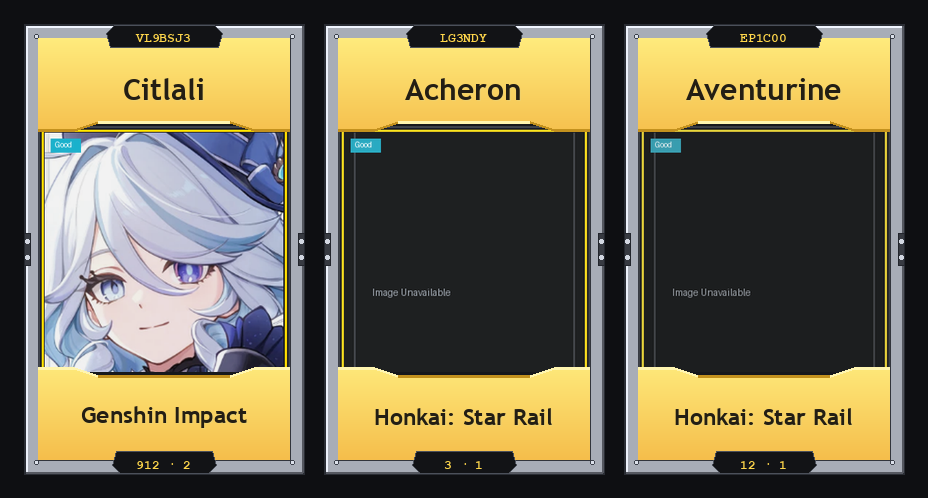
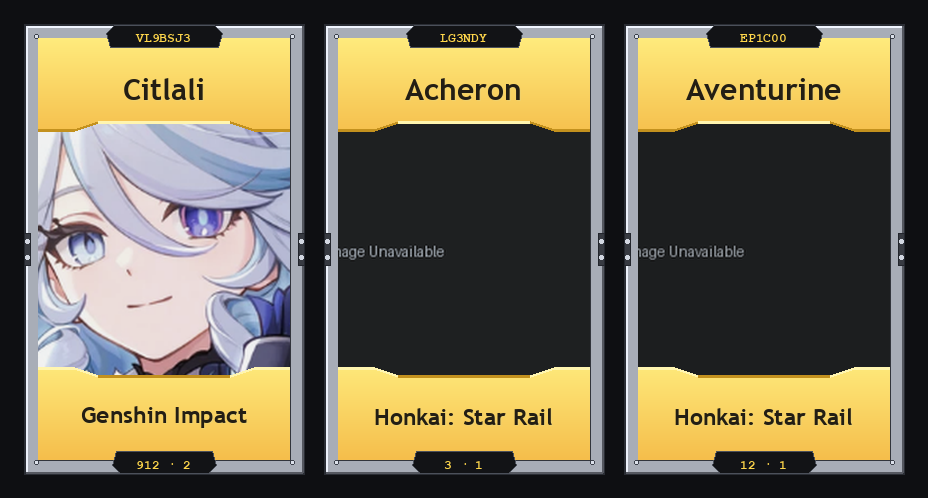
Update card renderer for full-bleed artwork scaling with zero black space

diff --git a/utils/renderer.py b/utils/renderer.py
@@ -143,7 +143,7 @@ def apply_quality_effects_on_artwork(draw: ImageDraw.ImageDraw, x: int, y: int, 
         draw.line([br_x - 45, br_y - 30, br_x - 70, br_y - 20], fill=crack_col, width=1)
 
 def fit_top_crop_image(img: Image.Image, target_w: int, target_h: int) -> Image.Image:
-    """Scales image to fill target width/height and crops from TOP center so character head is never cut off."""
+    """Scales image to fill full target dimensions (edge-to-edge, zero black bars), top-aligned to preserve character head/face."""
     orig_w, orig_h = img.size
     if orig_w == 0 or orig_h == 0:
         return img.resize((target_w, target_h), Image.Resampling.LANCZOS)
@@ -154,11 +154,11 @@ def fit_top_crop_image(img: Image.Image, target_w: int, target_h: int) -> Image.
     resized = img.resize((new_w, new_h), Image.Resampling.LANCZOS)
     
     left = (new_w - target_w) // 2
-    top = 0  # Align top so head/face is completely preserved
+    top = 0  # Preserve top of character image (head/face)
     return resized.crop((left, top, left + target_w, top + target_h))
 
 def fit_and_crop_image(img: Image.Image, target_w: int, target_h: int) -> Image.Image:
-    """Alias pointing to fit_top_crop_image."""
+    """Alias for fit_top_crop_image."""
     return fit_top_crop_image(img, target_w, target_h)
 
 # ==========================================
@@ -360,28 +360,23 @@ async def render_cards_image(cards: list, show_quality: bool = False) -> io.Byte
         # 1. Draw Frame Structure
         _draw_karuta_frame_structure(draw, cx, cy, card_w, card_h)
 
-        # 2. Viewport bounds & Artwork positioning (starts from name banner)
+        # 2. Viewport bounds & Artwork positioning (Full width & height, top-aligned)
         content_x = cx + t_frame
         content_y = cy + t_frame
         content_w = card_w - t_frame * 2
         content_h = card_h - t_frame * 2
 
-        # Artwork starts right under top name banner and spans to bottom series banner
-        art_x = content_x
-        art_y = content_y + banner_h - 12
-        art_w = content_w
-        art_h = content_h - (banner_h - 12) * 2
-
-        fitted_art = fit_top_crop_image(raw_images[i], art_w, art_h)
+        # Artwork fills the entire content box from content_x to content_x + content_w
+        fitted_art = fit_top_crop_image(raw_images[i], content_w, content_h)
         if show_quality:
             fitted_art = apply_quality_filter_to_image(fitted_art, q_val)
 
-        canvas.paste(fitted_art, (art_x, art_y))
+        canvas.paste(fitted_art, (content_x, content_y))
 
         if show_quality:
-            apply_quality_effects_on_artwork(draw, art_x, art_y, art_w, art_h, q_val)
+            apply_quality_effects_on_artwork(draw, content_x, content_y, content_w, content_h, q_val)
 
-        # 3. Gold Banners
+        # 3. Gold Banners over Artwork
         canvas.paste(top_banner_img, (content_x, content_y), top_banner_img)
         canvas.paste(bot_banner_img, (content_x, content_y + content_h - banner_h), bot_banner_img)
 
@@ -443,15 +438,10 @@ async def render_single_card(card_data: dict) -> io.BytesIO:
     content_w = card_w - t_frame * 2
     content_h = card_h - t_frame * 2
 
-    art_x = content_x
-    art_y = content_y + banner_h - 12
-    art_w = content_w
-    art_h = content_h - (banner_h - 12) * 2
-
-    fitted_art = fit_top_crop_image(raw_img, art_w, art_h)
+    fitted_art = fit_top_crop_image(raw_img, content_w, content_h)
     filtered_art = apply_quality_filter_to_image(fitted_art, q_val)
-    canvas.paste(filtered_art, (art_x, art_y))
-    apply_quality_effects_on_artwork(draw, art_x, art_y, art_w, art_h, q_val)
+    canvas.paste(filtered_art, (content_x, content_y))
+    apply_quality_effects_on_artwork(draw, content_x, content_y, content_w, content_h, q_val)
 
     top_banner_img = _create_gold_banner(content_w, banner_h, arch_type="top")
     bot_banner_img = _create_gold_banner(content_w, banner_h, arch_type="bottom")

diff --git a/test_preview.py b/test_preview.py
@@ -15,9 +15,13 @@ async def _mock_fetch(s, u):
         p = "/Users/user/Desktop/coo-coo-bot/firefly_cover_card.png"
     
     if os.path.exists(p):
-        return Image.open(p).convert("RGBA")
+        full_img = Image.open(p).convert("RGBA")
+        # If it's a pre-rendered card file, crop out the pure inner character portrait
+        if full_img.width > 200 and full_img.height > 300:
+            return full_img.crop((35, 35, full_img.width - 35, full_img.height - 110))
+        return full_img
     
-    # Create colorful dummy image
+    # Create colorful gradient dummy image
     img = Image.new("RGBA", (300, 450), (120, 140, 220, 255))
     return img
 
